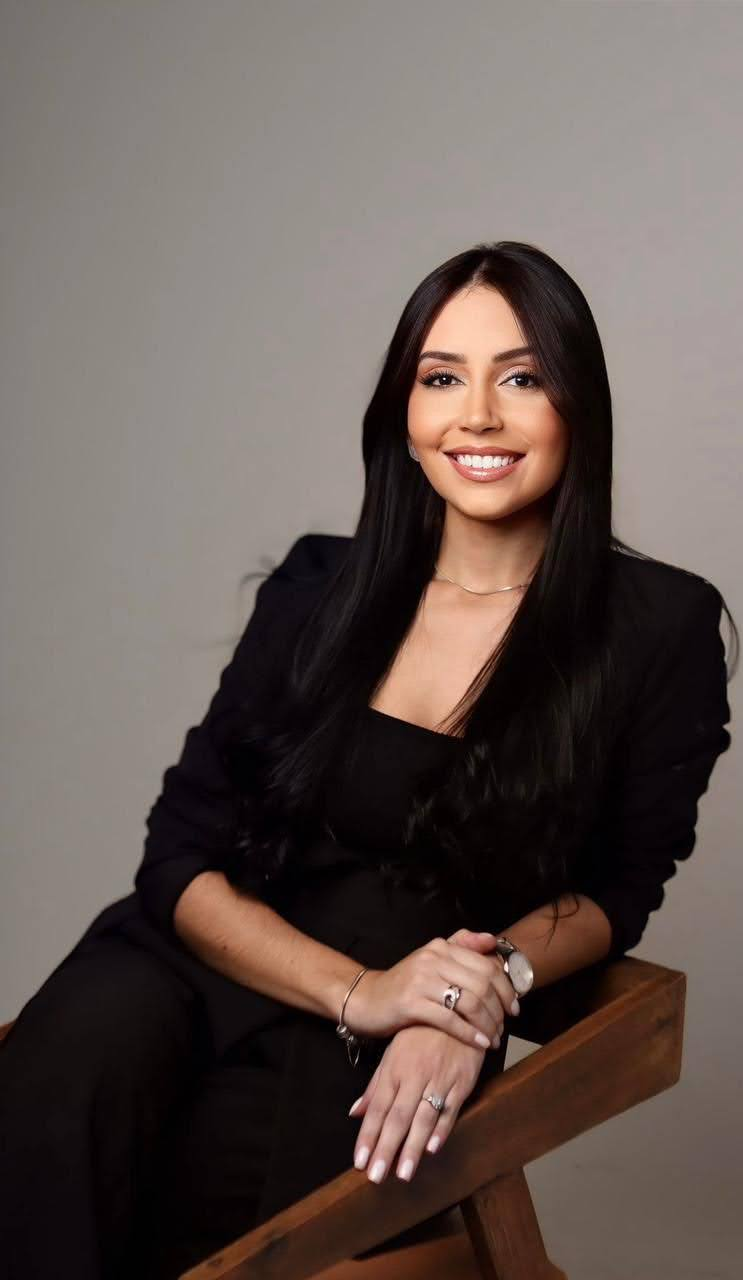
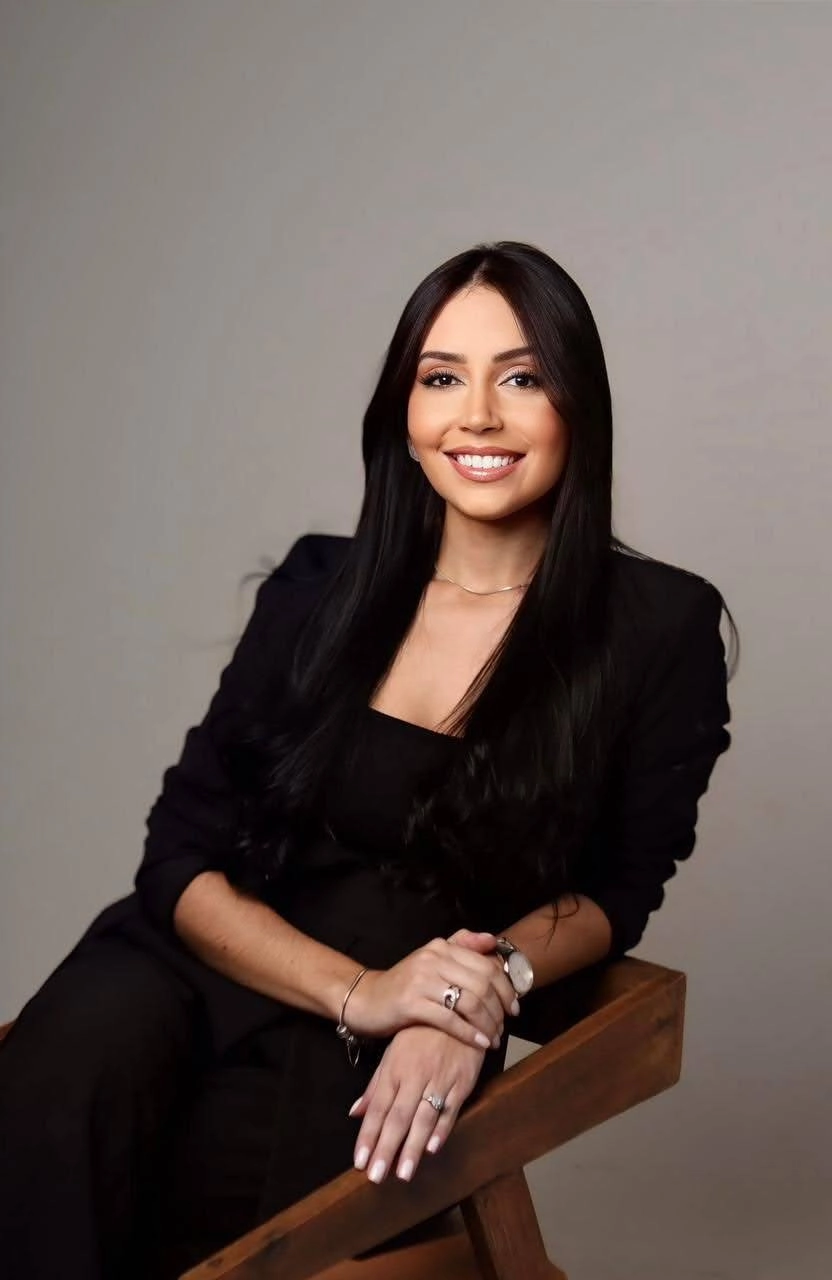
fix: Ajustes

diff --git a/src/content/content.jsx b/src/content/content.jsx
@@ -26,7 +26,7 @@ import { FileText } from 'lucide-react'
 const currentYear = new Date().getFullYear()
 
 export const infos = {
-  name: 'Jéssica Fernandes Advocacia',
+  name: 'Fernandes & Vieira Advocacia',
   email: 'contato', // Email desejado pelo cliente
   emailSecundario: 'A_Definir', // Email desejado pelo cliente
   domain: 'jessicafernandesadvogada.com.br', // Sem "www"
@@ -108,7 +108,7 @@ const content = {
       ctaButtonTextResponsive: 'Contato',
     },
     hero: {
-      miniTag: 'ESCRITÓRIO DE ADVOCACIA PREVIDENCIÁRIA',
+      miniTag: 'ESCRITÓRIO DE ADVOCACIA EM MINAS GERAIS',
       FirstPartTitle: 'Especialistas em Direito',
       DestaquePartTitle: (
         <p>
@@ -158,8 +158,8 @@ const content = {
       miniTag: 'Áreas de Atuação',
       title: (
         <h1>
-          Atuação completa em Direito
-          <span className="destaque italic font-light"> Previdenciário</span>
+          Atuação completa em Direito da
+          <span className="destaque italic font-light"> Seguridade Social</span>
         </h1>
       ),
       subtitle:
@@ -392,8 +392,8 @@ const content = {
       title: (
         <h1>
           Como
-          <span className="destaque italic font-light"> cuidamos</span> do seu
-          direito previdenciário?
+          <span className="destaque italic font-light"> conduzimos</span> seu
+          atendimento?
         </h1>
       ),
       subtitle: '',
@@ -402,27 +402,27 @@ const content = {
       cards: {
         card1: {
           stepNumber: 1,
-          cardTitle: 'Análise inicial da negativa do INSS',
+          cardTitle: 'Análise inicial do caso',
           cardDescription:
-            'Avaliação da situação previdenciária do segurado, do benefício requerido e dos fundamentos utilizados pelo INSS para o indeferimento.',
+            'Avaliação da situação previdenciária do segurado, do benefício pretendido e do histórico apresentado, com identificação das possibilidades e riscos envolvidos.',
         },
         card2: {
           stepNumber: 2,
           cardTitle: 'Análise de documentos e contribuições',
           cardDescription:
-            'Exame técnico do CNIS, laudos médicos, vínculos trabalhistas, períodos de carência e demais documentos relevantes para a verificação do direito.',
+            'Exame técnico do CNIS, laudos médicos, vínculos trabalhistas, períodos de contribuição, carência e demais documentos necessários à correta apuração do direito previdenciário.',
         },
         card3: {
           stepNumber: 3,
           cardTitle: 'Definição da estratégia previdenciária',
           cardDescription:
-            'Estudo das alternativas legais cabíveis, com definição da via administrativa ou judicial mais adequada ao caso concreto.',
+            'Estudo das alternativas legais aplicáveis ao caso, com definição da melhor estratégia, seja na esfera administrativa ou judicial.',
         },
         card4: {
           stepNumber: 4,
           cardTitle: 'Atuação administrativa ou judicial',
           cardDescription:
-            'Atuação junto ao INSS ou perante o Poder Judiciário, conforme a estratégia definida, para questionamento da negativa do benefício.',
+            'Atuação junto ao INSS ou perante o Poder Judiciário, conforme a estratégia adotada, buscando a efetivação do direito previdenciário do segurado.',
         },
       },
     },
@@ -441,25 +441,26 @@ const content = {
       subtitle: 'Confira as perguntas abaixo para esclarecer suas dúvidas. ',
       questions: {
         question1: {
-          question: 'O que significa ter um benefício do INSS negado?',
+          question: 'O que envolve uma análise de benefício do INSS?',
           answer:
-            'Significa que o INSS entendeu que, naquele momento, os requisitos legais para a concessão do benefício não foram comprovados, como tempo de contribuição, carência, qualidade de segurado ou documentação adequada.',
+            'Envolve a verificação do cumprimento dos requisitos legais para o benefício pretendido, como tempo de contribuição, carência, qualidade de segurado e a regularidade da documentação apresentada, conforme a legislação previdenciária vigente.',
         },
         question2: {
-          question: 'É possível reverter a negativa do INSS?',
+          question: 'É possível contestar uma decisão do INSS?',
           answer:
-            'Em alguns casos, sim. A reversão pode ocorrer por meio de recurso administrativo ou ação judicial, após a análise técnica da decisão e dos documentos apresentados, conforme a legislação previdenciária aplicável.',
+            'Em muitos casos, sim. A decisão pode ser revista por meio de recurso administrativo ou ação judicial, após análise técnica do caso concreto e dos documentos disponíveis, observando-se os procedimentos legais aplicáveis.',
         },
         question3: {
           question:
-            'Quais são os motivos mais comuns para o INSS negar um benefício?',
+            'Quais são os problemas mais comuns em processos previdenciários?',
           answer:
-            'Entre os motivos mais frequentes estão a falta de documentação, divergências no CNIS, ausência de carência mínima, perda da qualidade de segurado ou laudos médicos considerados insuficientes.',
+            'São comuns situações como documentação incompleta, inconsistências no CNIS, dúvidas quanto ao tempo de contribuição, carência exigida, qualidade de segurado ou avaliação médica previdenciária.',
         },
         question4: {
-          question: 'Existe prazo para questionar a negativa do INSS?',
+          question:
+            'Existem prazos para apresentar pedidos ou questionamentos ao INSS?',
           answer:
-            'Sim. O prazo para apresentação de recurso administrativo, em regra, é de 30 dias a partir da ciência da decisão. Em casos judiciais, os prazos variam conforme o tipo de benefício e a situação concreta.',
+            'Sim. Os prazos variam conforme o tipo de procedimento adotado. Recursos administrativos, por exemplo, possuem prazos específicos contados a partir da ciência da decisão, enquanto medidas judiciais dependem da natureza do benefício e do caso analisado.',
         },
       },
       paragraph: 'Clique aqui caso tenha mais dúvidas',

diff --git a/src/components/sections/TeamSection.jsx b/src/components/sections/TeamSection.jsx
@@ -96,7 +96,7 @@ function TeamSectionNew({ ButtonModal, colorMode }) {
                 transition={{ duration: 0.8, ease: 'easeOut' }}
                 className="space-y-8"
               >
-                <div className="max-w-[1200px]">
+                <div className="max-w-[450px]">
                   <h1
                     className={`text-3xl md:text-4xl font-mainFont font-medium mb-4 flex flex-wrap gap-2 ${text}`}
                   >
@@ -108,6 +108,12 @@ function TeamSectionNew({ ButtonModal, colorMode }) {
                     Sou Jéssica Fernandes, advogada previdenciarista, e escolhi
                     essa área porque acredito que por trás de cada benefício
                     existe uma vida inteira de trabalho, esforço e esperança.
+                    <br />
+                    <br />
+                    Minha advocacia é feita com sensibilidade, responsabilidade
+                    e compromisso, sempre respeitando a história de quem confia
+                    em mim. Não trato processos como números, mas como histórias
+                    que merecem atenção, cuidado e justiça.
                   </p>
                 </div>
               </motion.div>
@@ -119,7 +125,7 @@ function TeamSectionNew({ ButtonModal, colorMode }) {
                 transition={{ duration: 0.8, ease: 'easeOut', delay: 0.2 }}
                 className="relative w-full desktop1:max-w-[400px] mt-10 tablet1:mt-24 desktop1:mt-10 m-auto overflow-visible mb-10"
               >
-                <div className="relative rounded-3xl shadow-2xl ring-1 ring-black/5">
+                <div className="relative rounded-3xl shadow-2xl ring-1 max-w-[386px] mx-auto ring-black/5">
                   {/* CLIP DA IMAGEM */}
                   <div
                     className={`relative rounded-3xl overflow-hidden  ${image}`}
@@ -127,7 +133,7 @@ function TeamSectionNew({ ButtonModal, colorMode }) {
                     <img
                       src={content.texts.team.imgs.img1}
                       alt={content.texts.features.alt}
-                      className="w-full h-full object-cover scale-105 hover:scale-100 rounded-2xl transition-transform duration-700 "
+                      className="w-full max-h-96 object-cover scale-105 hover:scale-100 rounded-2xl transition-transform duration-700 "
                       width={798}
                       height={798}
                     />
@@ -143,7 +149,7 @@ function TeamSectionNew({ ButtonModal, colorMode }) {
                 transition={{ duration: 0.8, ease: 'easeOut' }}
                 className="space-y-8"
               >
-                <div className="max-w-[1200px]">
+                <div className="max-w-[450px]">
                   <h1
                     className={`text-3xl md:text-4xl font-mainFont font-medium mb-4 flex flex-wrap gap-2 ${text}`}
                   >
@@ -157,6 +163,11 @@ function TeamSectionNew({ ButtonModal, colorMode }) {
                     Entendo que o momento de buscar um benefício quase sempre
                     vem acompanhado de incertezas, mudanças e preocupações que
                     vão muito além do processo.
+                    <br />
+                    <br />
+                    Acredito que informação bem explicada traz segurança, e
+                    segurança faz toda a diferença em decisões que impactam
+                    diretamente a vida das pessoas.
                   </p>
                 </div>
               </motion.div>
@@ -168,15 +179,15 @@ function TeamSectionNew({ ButtonModal, colorMode }) {
                 transition={{ duration: 0.8, ease: 'easeOut', delay: 0.2 }}
                 className="relative w-full desktop1:max-w-[400px] mt-10 tablet1:mt-24 desktop1:mt-10 m-auto overflow-visible mb-10"
               >
-                <div className="relative rounded-3xl shadow-2xl ring-1 ring-black/5">
+                <div className="relative rounded-3xl shadow-2xl ring-1 max-w-[386px] mx-auto ring-black/5">
                   {/* CLIP DA IMAGEM */}
                   <div
-                    className={`relative rounded-3xl overflow-hidden  ${image}`}
+                    className={`relative rounded-3xl overflow-hidden ${image}`}
                   >
                     <img
                       src={content.texts.team.imgs.img2}
                       alt={content.texts.team.imgs.alt}
-                      className="w-full scale-105 hover:scale-100 transition-transform duration-700 rounded-[1rem]"
+                      className="w-full max-h-96 object-cover scale-105 hover:scale-100 rounded-2xl transition-transform duration-700 "
                       width={726}
                       height={726}
                     />
